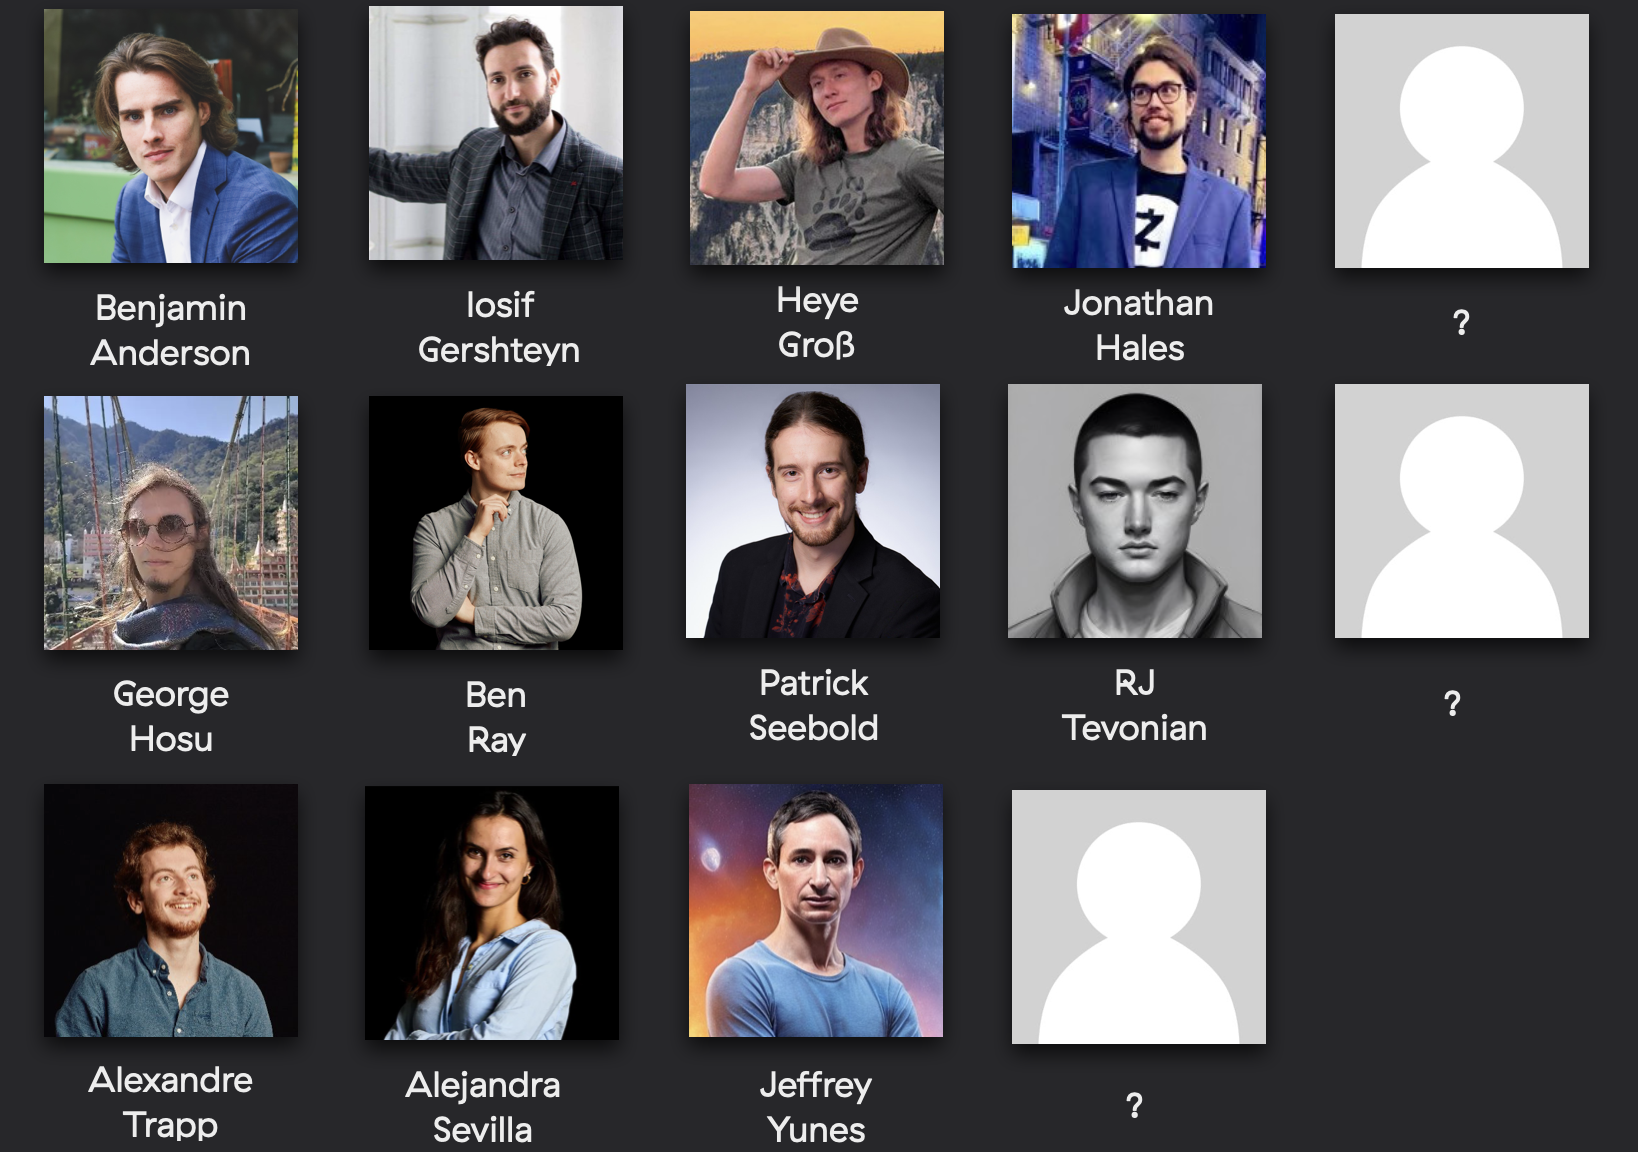
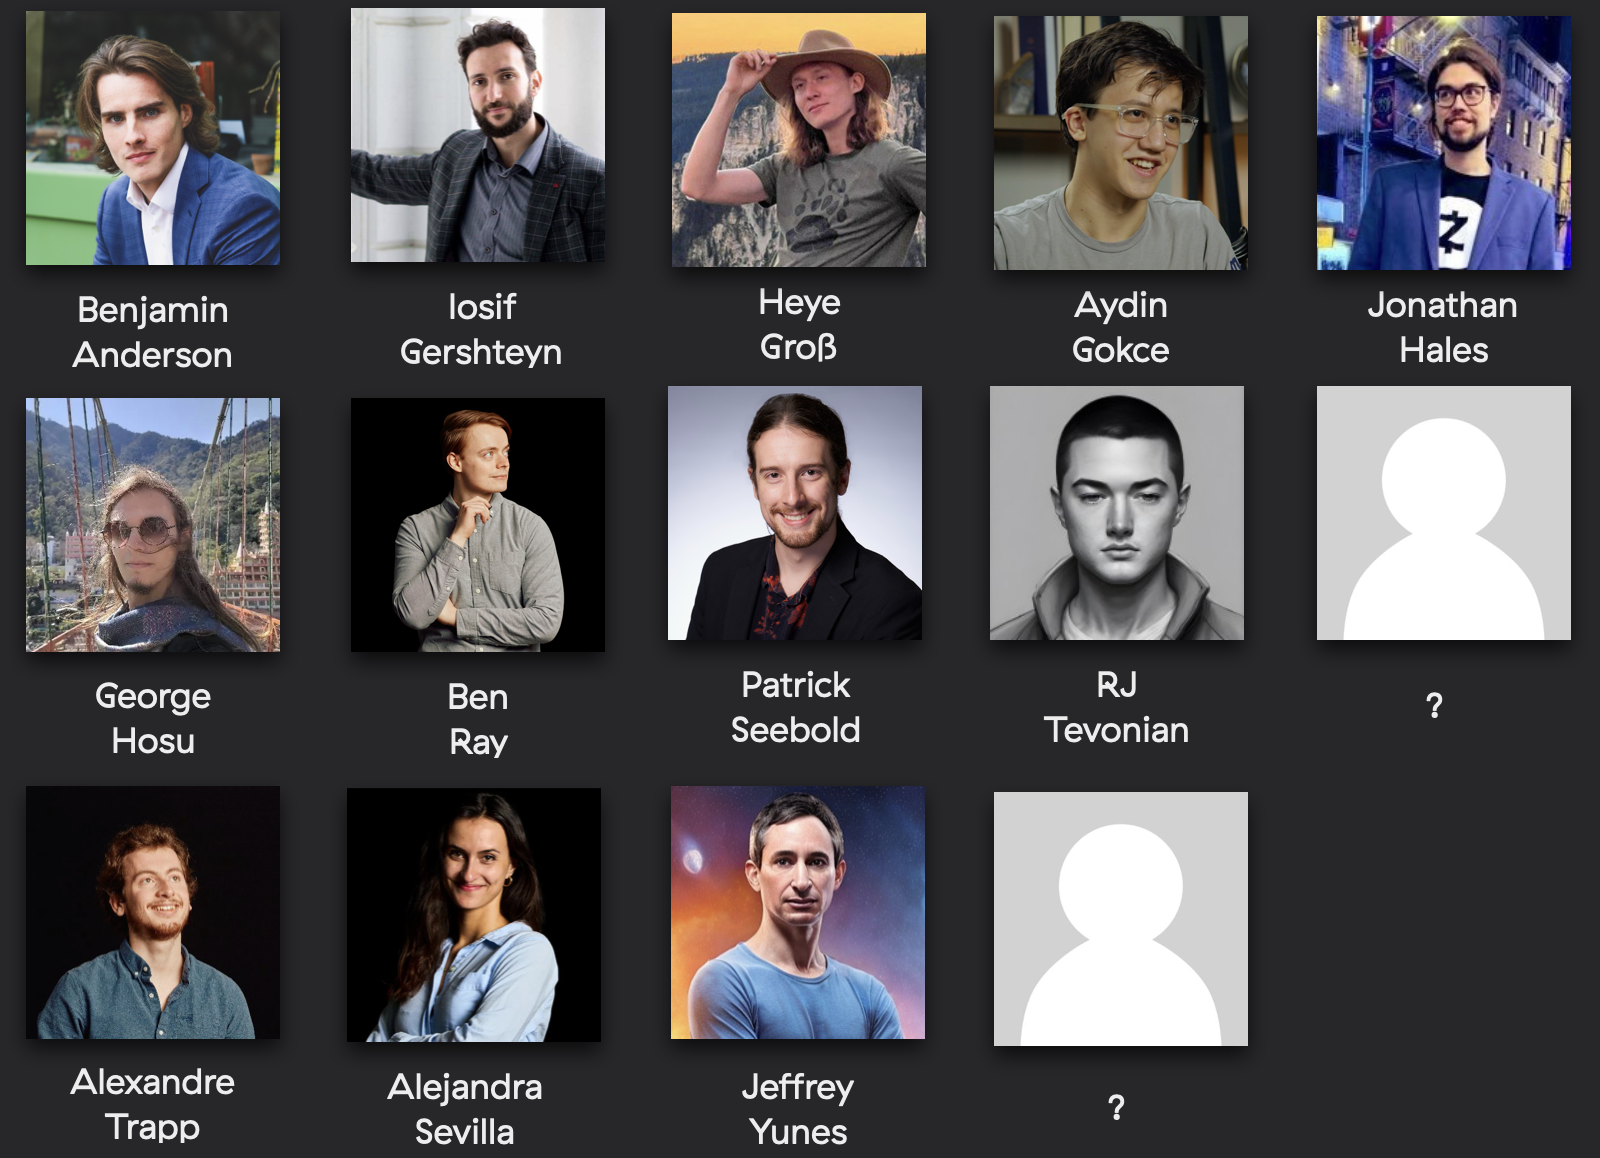
aydin add/ /

diff --git a/content/hidden/psa002confirm.md b/content/hidden/psa002confirm.md
@@ -13,7 +13,7 @@ showEdit: false
 The retreat roster has been finalized for Pattern Spotters: Aging 002. 14 of us will come together from September 19-22 in Winter Park, Colorado. 
 {{< /lead >}}
 
-Below is an image of all of the people that will be attending along with you. 3 hotseats are open for folks who need more time to confirm. 
+Below is an image of all of the people that will be attending along with you. 2 hot seats are open for folks who need more time to confirm. 
 
 ![Image of pattern spotters aging roster](/img/roster2.png)
 
